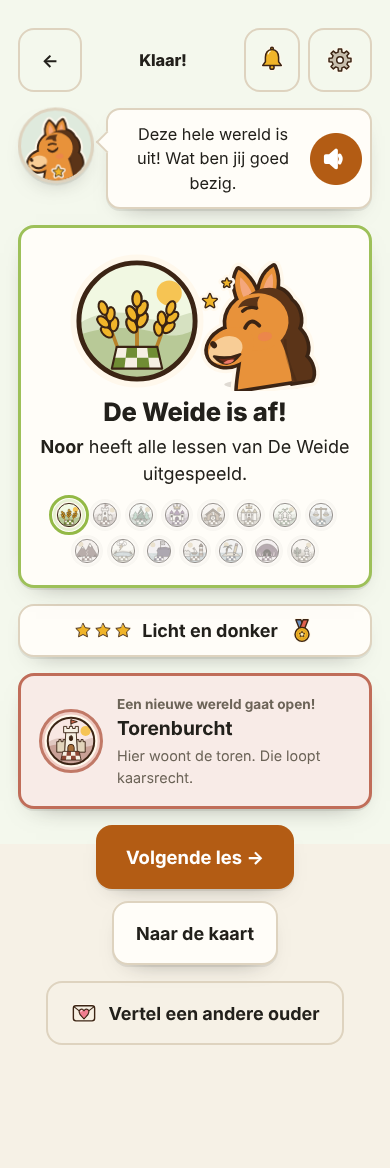
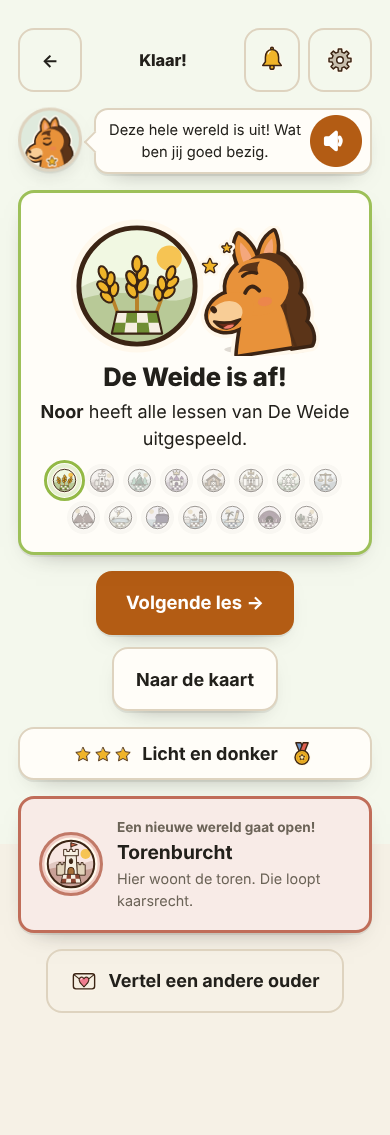
39e review verwerkt: Volgende les onder de feestkaart, wapenrij altijd 8+7, Pip zacht krimpen, doorloopregels wereld af en kijkfase

Changed region(s): [[0.0308, 0.0308, 0.9538, 0.8943], [0.3692, 0.0308, 0.4615, 0.0617], [0.0308, 0.5242, 0.0615, 0.5551]]

diff --git a/src/lesson/LessonPlayer.module.css b/src/lesson/LessonPlayer.module.css
@@ -294,3 +294,17 @@
   .vertelStack > .vakKnoppen { order: -1; }
   .vertelStack > .vakPip { order: -2; }
 }
+
+/* Altijd 8 + 7, op elke breedte (39e review: flex-wrap gaf 7+7+1 op 320 en 9+6 op 393).
+   De maat van een wapen volgt de breedte, en de rij is precies 8 wapens breed. */
+.wapenRij { --wapen: min(36px, calc((100vw - 96px - 28px) / 8)); gap: 4px !important; max-width: calc(8 * var(--wapen) + 28px) !important; }
+.wapenKlein { width: var(--wapen) !important; height: var(--wapen) !important; }
+.wapenKlein img { width: 82% !important; height: 82% !important; }
+
+/* Wereld af: Pip, feestkaart, knoppen, dan pas lesuitslag en nieuwe wereld. */
+.wereldAf { order: 1; }
+.naFeest { order: 2; }
+.wereldAf ~ *:not(.naFeest) { order: 3; }
+
+/* De getinte achtergrond loopt door tot onder de knoppen (39e review: naad door "Volgende les"). */
+.wereldpagina { min-height: 100dvh; }

diff --git a/src/lesson/LessonPlayer.tsx b/src/lesson/LessonPlayer.tsx
@@ -614,8 +614,10 @@ export function LessonPlayer({
               </div>
             </div>
           )}
-          {/* De hoofdknop eerst: op een telefoon stond "Naar de kaart" erboven (28e review). */}
-          <div className="row" style={{ justifyContent: 'center' }}>
+          {/* De hoofdknop eerst: op een telefoon stond "Naar de kaart" erboven (28e review).
+              Bij wereld af direct onder de feestkaart (CSS-volgorde): daaronder viel hij op
+              de meeste schermen onder de vouw (39e review). */}
+          <div className={`row ${wereldKlaar ? styles.naFeest : ''}`} style={{ justifyContent: 'center' }}>
             {volgende && (
               <Link href={`/les/${volgende.id}/`} className="btn btn--primary btn--big">
                 Volgende les →

diff --git a/src/ui/Pip.module.css b/src/ui/Pip.module.css
@@ -124,3 +124,7 @@
 .groot .pip { width: 112px; height: 112px; }
 /* Op een laag scherm duwde de grote Pip "Verder" onder de vouw (39e review). */
 @media (max-height: 779px) { .groot .pip { width: 76px; height: 76px; } }
+
+/* Zacht krimpen na de kennismaking, geen schok (39e review). */
+.pip { transition: width 250ms ease, height 250ms ease; }
+@media (prefers-reduced-motion: reduce) { .pip { transition: none; } }

diff --git a/docs/volgende-niveau.md b/docs/volgende-niveau.md
@@ -30,7 +30,7 @@ Schermafbeeldingen: `docs/volgende-niveau/voor-*.png`.
 | Tik-reactie < 100 ms | ronde 10: goed veld 31 ms, fout veld 31 ms, hulp 13 ms (zichtbare verandering, na de verf); bewaakt in doorloop | 🟢 |
 | Beloningsmoment per wereld | ronde 3: eigen held-kaart (wapen 128 px, confetti, wapenrij), diploma-voorproef | 🟢 (wow nog te meten) |
 | `prefers-reduced-motion` | ronde 10: elke animatie stopt na één keer; doorloop: geen eindeloze animaties op /, les, kaart, minispel; golf/vonk aan én uit bewaakt | 🟢 |
-| Wow-toets ≥ 9 (4 schermen, 2 reviewers) | ronde 13 (iconen): start 7/7,5, les 6–7/7, wereld af 8/7,5, kaart 7–8/8. ronde 12 (illustraties): start 7/7,5, les 6,5/7,5, wereld af 7,5/8, kaart 7–8/8. ronde 11 (alle vier opnieuw): start 7,5/7,5, les 6,5/7, wereld af 7/7, kaart 7/7,5 — vast op beeldtaal, zie vraag 1. ronde 6: start 7/8. ronde 5: kaart 6,5/7,5. ronde 4: eerste les 7/7. ronde 3: wereld af 5/7, diploma 7,5/8 (vóór verbouwing). ronde 2: start 6/7, les 6,5/6, diploma 3/–, kaart 5/6,5 (zie 27e review) | 🔴 |
+| Wow-toets ≥ 9 (4 schermen, 2 reviewers) | ronde 14 (Pip groot): start 7/7, les 6/6,5, wereld af 8/8, kaart 6–7/7,5. ronde 13 (iconen): start 7/7,5, les 6–7/7, wereld af 8/7,5, kaart 7–8/8. ronde 12 (illustraties): start 7/7,5, les 6,5/7,5, wereld af 7,5/8, kaart 7–8/8. ronde 11 (alle vier opnieuw): start 7,5/7,5, les 6,5/7, wereld af 7/7, kaart 7/7,5 — vast op beeldtaal, zie vraag 1. ronde 6: start 7/8. ronde 5: kaart 6,5/7,5. ronde 4: eerste les 7/7. ronde 3: wereld af 5/7, diploma 7,5/8 (vóór verbouwing). ronde 2: start 6/7, les 6,5/6, diploma 3/–, kaart 5/6,5 (zie 27e review) | 🔴 |
 | OG-afbeelding per pagina | ronde 9: 28 eigen plaatjes (werelden, schaakregels, schaakclub), lessen delen hun wereld; build controleert 206 verwijzingen. Nog te testen: vierkante uitsnede in echte WhatsApp | 🟢 |
 | Deelknop op trotse momenten | ronde 3: op wereld af en diploma, alleen link + vaste zin, anonieme telling `Gedeeld`; doorloop bewaakt share én kopieer zonder naam | 🟢 |
 | Installeerbaar | manifest + service worker aanwezig | 🟢 |
@@ -38,12 +38,12 @@ Schermafbeeldingen: `docs/volgende-niveau/voor-*.png`.
 | `npm run check` + doorloop groen | ronde 2: groen (doorloop 23 regels) | 🟢 |
 | `/release-review` go | 27e review: go voor deze fase, na verwerking | 🟢 |
 
-## Rangschikking, na ronde 13
+## Rangschikking, na ronde 14
 
-1. **Pip groot en levend in de juichmomenten.** Bij wereld af juicht Pip groot naast het wapen, en de ballon blijft in beeld. Bij de kennismaking in de kijkfase is Pip groter en wijst hij naar het bord.
-2. **Het bord in de kijkfase laten vertellen**, bijvoorbeeld een rand in de stijl van de wereld om het bord.
-3. **Het kaartpad doorgetrokken over het landschap**, ook op brede schermen.
-4. Emoji in de uitslagen van partijen en live spelen. Dat zijn niet de wow-schermen, dus het komt later.
+1. **Kaart: een trofeeënplank.** Bovenaan staan de gehaalde wapens groot en de hoefijzers, zodat je in één beeld ziet "kijk wat Noor al kan". Bij drie werelden af scoort de kaart nu een 6.
+2. **De kijkfase laat het bord vertellen:** velden lichten op terwijl Pip vertelt, en het stuk staat op het bord.
+3. **Startpagina:** Pip groot boven de vouw.
+4. Emoji in de uitslagen van partijen en live spelen. Dat zijn niet de wow-schermen, dus later.
 
 ## Logboek
 - Ronde 1: nulmeting. Niets aan de app veranderd.
@@ -59,3 +59,4 @@ Schermafbeeldingen: `docs/volgende-niveau/voor-*.png`.
 - Ronde 11: speelbaar paard in de held; alle vier wow-schermen opnieuw gemeten. Loop gestopt: beeldtaal is een keuze voor Kaj (vraag 1).
 - Ronde 12: eigen illustraties (Pip, wapens, kaartstroken) ingebouwd; bordje in wapens rechtsonder licht; offline en test op bestaan.
 - Ronde 13: één tekenstijl (71 iconen), schaakfouten in iconen hersteld, luidspreker met contrast in donker, LCP 2,1–2,3 s.
+- Ronde 14: Pip groot in de juichmomenten; Verder en Volgende les altijd in beeld (doorloop); wapenrij altijd 8+7.

diff --git a/docs/reviews/2026-11-04-negenendertigste-review.md b/docs/reviews/2026-11-04-negenendertigste-review.md
@@ -1,0 +1,46 @@
+# Negenendertigste review: Pip groot in de juichmomenten (2026-11-04)
+
+Fase: "volgende niveau", ronde 14. Branch `volgende-niveau`. De reviewers zijn rechtstreeks gestart.
+
+**Oordeel na verwerking: GO voor deze fase.** `check` en de doorloop zijn groen. De doorloop heeft twee nieuwe regels:
+- In de kijkfase staat "Verder" in beeld op 360×740 en 375×667.
+- Bij wereld af staan de wapens als 8 + 7 en staat "Volgende les" in beeld, op 320, 393 en 1024 breed.
+
+Er zijn geen te kleine raakvlakken.
+
+## Wat er gebouwd is
+- Bij wereld af juicht een grote Pip naast het wapen. Hij springt twee keer, behalve bij reduced-motion.
+- In de kijkfase is Pip bij de eerste zin groot, met de nieuwe prop `groot`.
+
+## Schaakmeester
+- Er is niets veranderd in engine of content. Pip bedekt het bord en de vertelzin niet. Geen bevindingen.
+
+## Conversie (start 7 · les 6,5 · wereld af 8 · kaart 7,5)
+- **Belangrijk: door de grotere Pip zakte "Verder" in de kijkfase onder de vouw.** *Opgelost:* onder 780 px schermhoogte heeft Pip weer zijn gewone maat. Op lage staande schermen staat de knoppenrij boven het bord. Dit is met een doorloopregel bewezen.
+- **Belangrijk: bij wereld af bleef de pagina staan waar het bord stond.** *Opgelost:* de beloning begint bovenaan.
+- **Klein: de wapenrij op 360 en twee Pips op het feestscherm.** *Opgelost:* zie Codebase. Bovenin staat nu een kleine Pip.
+
+## Layout (start 7 · kijk 6 · opgave 6 · wereld af 8 · kaart 7 / 6)
+- **Belangrijk: "Volgende les" viel bij wereld af op bijna alle formaten onder de vouw.** *Opgelost:* bij wereld af staan de knoppen direct onder de feestkaart (CSS-volgorde). De doorloop meet de onderkant op 623, 636 en 605 px.
+- **Klein: Pip kromp met een schok.** *Opgelost:* er is nu een overgang van 250 ms (uit bij reduced-motion).
+- **Klein: de achtergrond stopte op schermhoogte.** *Opgelost:* `min-height: 100dvh`.
+- **Klein: de grote kennismakings-Pip zie je alleen op hoge schermen.** *Bewust zo:* "Verder" in beeld gaat voor.
+
+## Codebase
+- **Belangrijk: de wapenrij was alleen op 390 breed 8 + 7** (op 320 7+7+1, op 393 9+6). *Opgelost:* de maat van een wapen volgt nu de breedte, en de rij is precies 8 wapens breed. De doorloop bewijst dat op 320, 393 en 1024.
+- **Klein: geen doorloopregel voor wereld af.** *Opgelost:* zie boven.
+- **Klein: het bord springt na de eerste zin.** *Verzacht* met de overgang.
+
+## Wow (ronde 14, vóór verwerking)
+| scherm | layout | conversie |
+|---|---|---|
+| Startpagina | 7 | 7 |
+| Eerste les | 6 / 6 | 6,5 |
+| Wereld af | 8 | 8 |
+| Kaart | 7 / 6 (3 af) | 7,5 |
+
+Wat naar een 9 ontbreekt:
+- **Kaart:** in één beeld laten zien wat het kind al gehaald heeft, met een plank van gewonnen wapens bovenaan.
+- **Kijkfase:** het bord laten vertellen, met een stuk of oplichtende velden.
+- **Startpagina:** Pip groot boven de vouw.
+- **Wereld af:** Pip en wapen nog groter.
